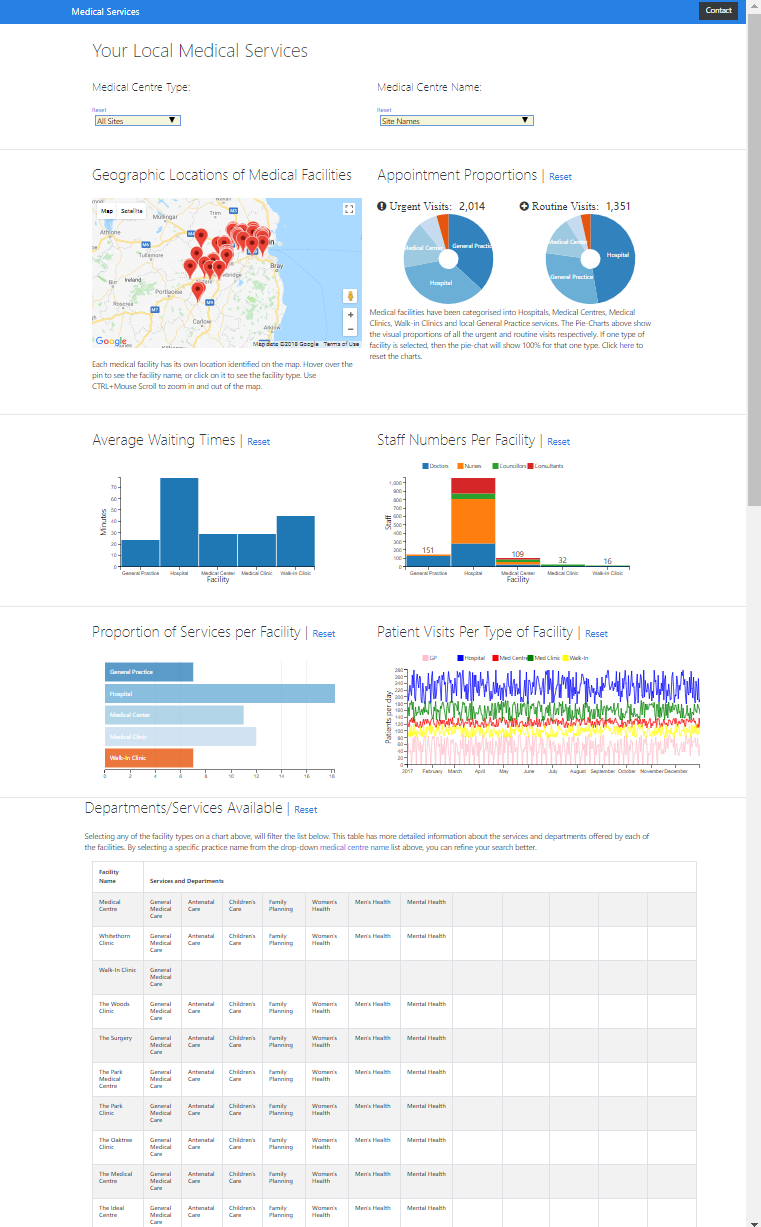
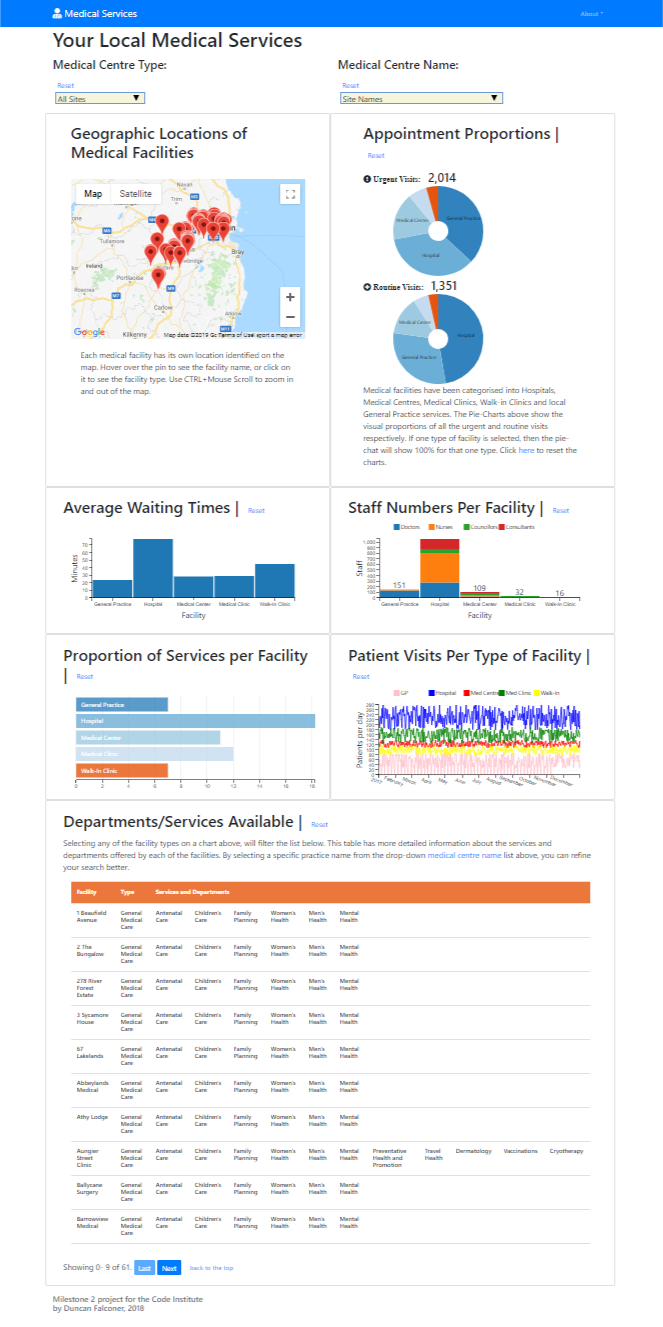
Updated nav bar styles for dropdown menu.  Working on readme.

diff --git a/index.html b/index.html
@@ -71,7 +71,7 @@
                             <div class="dropdown-menu" aria-labelledby="navbarDropdown">
                                 <a class="dropdown-item" data-toggle="modal" data-target="#emailModal"><i class="far fa-paper-plane"></i>
                                     Contact</a>
-                                <a class="dropdown-item" href="https://github.com/ddeveloper72/milestone-2-project/blob/master/README.md"><i class="fas fa-info-circle"></i> Readme</a>
+                                <a class="dropdown-item" href="https://github.com/ddeveloper72/milestone-2-project/blob/master/README.md" target="_blank" ><i class="fas fa-info-circle"></i> Readme</a>
                             </div>
                         </li>
                     </ul>

diff --git a/static/css/style.css b/static/css/style.css
@@ -19,6 +19,24 @@ a {
     font-weight: 400; 
 }
 
+a:not([href]):not([tabindex]) {
+    color: #ffffff;
+}
+
+.dropdown-menu {
+    background-color:#3393ff;
+}
+
+.dropdown-item {
+    color: #ffffff;
+    background-color: #3393ff;
+}
+
+.dropdown-item:hover {
+    color: #ffffff;
+    background-color: #4133ff58;
+}
+
 .paragraph-link { 
     cursor: pointer;
     font-size: 1em;

diff --git a/README.md b/README.md
@@ -9,13 +9,13 @@
 
 1. The project brief from the Code Institute can be found by clicking [here](https://github.com/ddeveloper72/milestone-2-project/blob/master/readme/brief.md).
 
-        This project is about creating a dashboard filled with useful information and incorporates good user experience on both a small mobile device scree as well as a desktop monitor.  I have used the Bootswatch Cosmo theme with bootstrap v.4.1
+This project is about creating a dashboard filled with useful information and incorporates good user experience on both a small mobile device scree as well as a desktop monitor.  I have used the Bootswatch Cosmo theme with bootstrap v.4.1
   
 2. The Guidelines for the project from the Code Institute can be found by clicking [here](https://github.com/ddeveloper72/milestone-2-project/blob/master/readme/guidelines.md).
    
-        The purpose of this webpage is to show data about my local medical facilities in a visual way.
+The purpose of this webpage is to show data about my local medical facilities in a visual way.
 
-        To do this, I had to crate my own custom data-set.  I sourced my data from different locations.  First  I used the google maps search function to locate any medical facilities near me.  Based on the search results, I collected the names and gps coordinates which I later used with the google maps API to place markers on my map.  I then researched actual clinics, found in the search, to study the kind of  information that was published by them.  I collated the common characteristics of each one, such as the advertised service categories offered, details about the number of practitioners at the facilities and contact details, open close times etc.  I then sorted and sifted through the data to pick out elements that was useful and changed other elements to make them generic to maintain the privacy of the facilities that I was researching. 
+To do this, I had to crate my own custom data-set.  I sourced my data from different locations.  First  I used the google maps search function to locate any medical facilities near me.  Based on the search results, I collected the names and gps coordinates which I later used with the google maps API to place markers on my map.  I then researched actual clinics, found in the search, to study the kind of  information that was published by them.  I collated the common characteristics of each one, such as the advertised service categories offered, details about the number of practitioners at the facilities and contact details, open close times etc.  I then sorted and sifted through the data to pick out elements that was useful and changed other elements to make them generic to maintain the privacy of the facilities that I was researching. 
 
 
 
@@ -25,21 +25,89 @@
 <div>
 <img src="https://github.com/ddeveloper72/milestone-2-project/blob/master/static/images/readme/fullPageSmall.png" alt="Screenshot of the webpage"style="float: right; margin-left: 10px; margin-top: 5px; margin-bottom: 5px;"> <p>Fig 1 Webpage screenshot</p></div>
 
-    During the development of my database I used faker.js and found that because I am new to web development, I was unable to refine the use of the tool to my specific needs within the confines of the project time-line.  I used faker.js  to generate average the number of patient visits per medical facility type as well as number of patient visits per facility type every day for a year, 2017.  I then cleaned up may data when it was in csv format using Microsoft Excel and the =RANDBETWEEN(lowerval,upperval) function.  The result is functional static data.  If you have a look at the composite chart how ever, because it’s random patient count values, there is no variation in the data from week to week, month to month or any seasonal variations which would have been nice to demonstrate.  The purpose of the project was to create a dashboard and not a database, though the project could be changed in time to use actual real-world dynamic data if it becomes available in the form of an API.
+During the development of my database I used faker.js and found that because I am new to web development, I was unable to refine the use of the tool to my specific needs within the confines of the project time-line.  I used faker.js  to generate average the number of patient visits per medical facility type as well as number of patient visits per facility type every day for a year, 2017.  I then cleaned up may data when it was in csv format using Microsoft Excel and the =RANDBETWEEN(lowerval,upperval) function.  The result is functional static data.  If you have a look at the composite chart how ever, because it’s random patient count values, there is no variation in the data from week to week, month to month or any seasonal variations which would have been nice to demonstrate.  The purpose of the project was to create a dashboard and not a database, though the project could be changed in time to use actual real-world dynamic data if it becomes available in the form of an API.
 
-    I would like to have been able to link the google maps geolocation data with the cross filter data from the charts.  Unfortunately I was unsuccessful in all my attempts to do this. I have an idea to output the dynamic crossfilter data as a table, which includes the lat lng coordinates.  My work around would be to use the google maps JavaScript to read the coordinates from the dynamic html table.  I will look to see if this is possible to do.   I would like to credit a user in stack overflow for the JavaScript method which I adopted, to read and place the markers on my own google map, along with information tags from my csv database.  There is no name given.  Here is a link to the resource on [stackoverflow](https://goo.gl/G6GvHn)
+I would like to have been able to link the google maps geolocation data with the cross filter data from the charts.  Unfortunately I was unsuccessful in all my attempts to do this. I have an idea to output the dynamic crossfilter data as a table, which includes the lat lng coordinates.  My work around would be to use the google maps JavaScript to read the coordinates from the dynamic html table.  I will look to see if this is possible to do.   I would like to credit a user in stack overflow for the JavaScript method which I adopted, to read and place the markers on my own google map, along with information tags from my csv database.  There is no name given.  Here is a link to the resource on [stackoverflow](https://goo.gl/G6GvHn)
 
-    This project relies heavily on dc-js charts.  My inspiration came from the class tutorials as well as from work by the likes of Gordon Woodhull.  I spent a lot of my time reading through the [dc.js - Dimensional Charting Javascript Library](http://dc-js.github.io/dc.js/)
+This project relies heavily on dc-js charts.  My inspiration came from the class tutorials as well as from work by the likes of Gordon Woodhull.  I spent a lot of my time reading through the [dc.js - Dimensional Charting Javascript Library](http://dc-js.github.io/dc.js/)
 
-    I have included a contact modal that uses emailJS for the dashboard user to send a message via a google email account.
+I have included a contact modal that uses emailJS for the dashboard user to send a message via a google email account.
 
-    The webpage is made using semantic HTML5 with a Bootstrap grid layout.  I have used css media queries as well as full screen width bootstrap grid layout for small screen sizes.
+The webpage is made using semantic HTML5 with a Bootstrap grid layout.  I have used css media queries as well as full screen width bootstrap grid layout for small screen sizes.
 
 ## 2. The UX Design
 *(This template is with thanks from 
 @sarahloh)*
 
+#### Strategy
 
+| Focus                                                       | User Needs                                                            | Business Objectives                             |
+|-------------------------------------------------------------|-----------------------------------------------------------------------|-------------------------------------------------|
+| What are you aiming to achieve?                             | To be able to see information about local medical facilities  |  |
+|                                                             | To be able to see graphical stats about medical facilities.  |  |
+| For whom?                                                   | To be able to filter information in the charts |  |
+| TARGET AUDIENCE                                             | To show all this information in a single page application  |  |
+|                                                             | To present and demonstrate dc-js charts in the best way possible  |  |
+|                                                             |   |  |
+|                                                             |   |  |
+|                                                             |   |  |
+|                                                             |   |  |
+|                                                             |   |  |
+
+
+
+#### Scope
+
+| Focus                                                       | Functional Specification                                              | Content Requirements                            |
+|-------------------------------------------------------------|-----------------------------------------------------------------------|-------------------------------------------------|
+| Which features?                                             | Create a Single-Page Application (SPA)  | Data is stored locally in .csv format |
+| What’s on the table?                                        | Incorporate links or buttons to allow your user to navigate the site and reset/control the site functionality |  |
+|                                                             | Use of Bootstrap CSS framework |  |
+|                                                             | Use of JavaScript & jQuery |  |
+|                                                             | Version control managed with Git & GitHub |  |
+|                                                             |  |  |
+|                                                             |  |  |
+|                                                             |  |  |
+|                                                             |  |  |
+|                                                             |  |  |
+|                                                             |  |  |
+|                                                             |  |  |
+
+
+#### Structure
+
+| Focus                                                       | Interaction Design                                                           | Information Architecture                                                               |
+|-------------------------------------------------------------|------------------------------------------------------------------------------|----------------------------------------------------------------------------------------|
+| How is the information structured?                          | Where am I? / How did I get here? / What can I do here? / Where can I go?    | Organizational / Navigational schemas (tree / nested list / hub and spoke / dashboard) |
+|                                                             | The information is presented as a dc-js dashbard | Single root page |
+| How is it logically grouped?                                | The nav-bar provides access to an email modal | About/contact |
+|                               							  | The nav-bar provides a link to the project readme on the developers gitHub repository | About/readme |
+|                                                             |  |  |
+|                                                             |  |  |
+|                                                             |  |  |
+|                                                             |  |  |
+
+
+#### Skeleton
+
+| Focus                                                       | Interface Design                                       | Navigational Design  | Information Design  |
+|-------------------------------------------------------------|--------------------------------------------------------|----------------------|---------------------|
+| How will the information be represented?                    | See wireframes                                         |                      |                     |
+| How will the user navigate to the information and features? | See mockups designs |  |  |
+|                                                             |  |  |  |
+|                                                             |  |  |  |
+|                                                             |  |  |  |
+|                                                             |  |  |  |
+|                                                             |  |  |  |
+
+
+#### Surface
+
+| Focus                                                       | Visual Design                       |
+|-------------------------------------------------------------|-------------------------------------|
+| What will the finished product look like?                   |  |
+|                                                             |  |
+| What colours, typography and design elements will be used?  |  |
 
 ## 3. Web Page Construction
 
